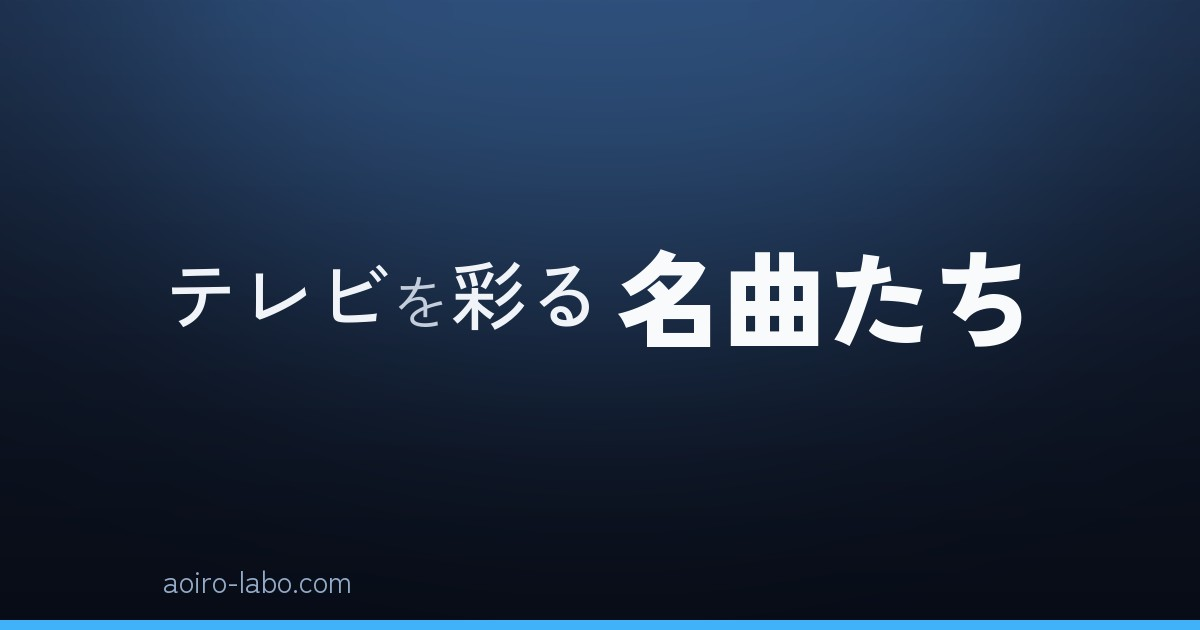
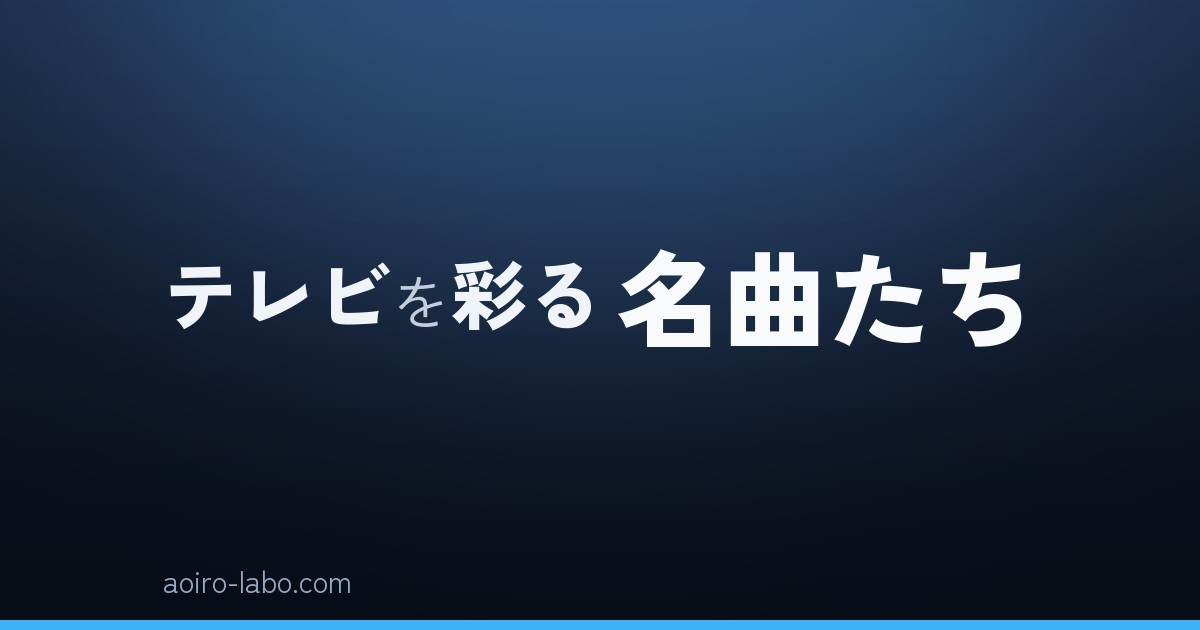
カバー生成：通常テキストのデフォルトをBoldに

Changed region(s): [[0.37, 0.3921, 0.4933, 0.5127], [0.1233, 0.4222, 0.3392, 0.5127]]

diff --git a/tools/generate_cover.py b/tools/generate_cover.py
@@ -231,7 +231,7 @@ def style_of(cls, size, acc):
     if cls=='hero': return cover_font("Bold", int(size*1.45)), WHITE
     if cls=='accent': return cover_font("SemiBold", int(size*1.15)), acc
     if cls=='sub': return cover_font("Regular", max(20,int(size*0.8))), SUBC
-    return cover_font("Medium", size), BASE
+    return cover_font("Bold", size), BASE
 
 def line_heights(lines, size, acc):
     hs=[]
